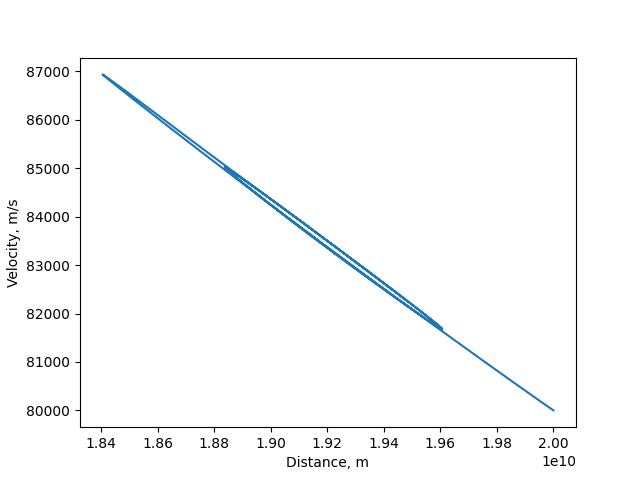
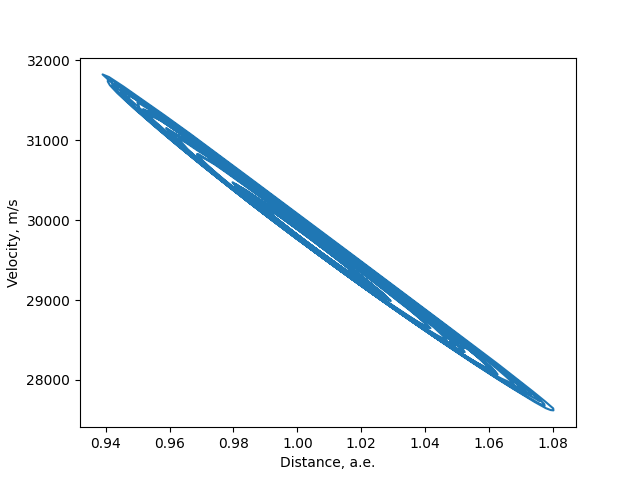
more soft code, renamed axis, added warning for energy conservation

diff --git a/solar_main.py b/solar_main.py
@@ -25,13 +25,9 @@ model_time = 0
 """Физическое время от начала расчёта.
 Тип: float"""
 
-base_time_scale = 300 # ты знаешь что такое определение безумия?
-"""Шаг по времени при моделировании(видимый)  в секундах по дефолту (сколько модельного времени проходит за секунду пользователя""
+base_time_scale = 3000 # ты знаешь что такое определение безумия?
+"""Шаг по времени при моделировании(видимый)  в секундах по дефолту (сколько модельного времени проходит в с за секунду пользователя""
 то есть при нулевом положении шкалы Тип: float"""
-
-precision = 5E7 # видимо это не поможет
-""" максимальный шаг по времени для программы в техническом исполнении с"""
-
 
 time_scale = base_time_scale
 """ Шаг времени при моделировании меняемый при изменении слайдера"""
@@ -47,32 +43,17 @@ models = os.listdir(directory)
 
 chosen_file = ''  # сразу после запуска программы ни одна модель не загружена
 
-list_of_models_is_seen = True
-
+list_of_models_is_seen = False
 
 def execution(delta):
     """Функция исполнения -- выполняется циклически, вызывая обработку всех небесных тел,
     то есть расчет их скоростей и координат.
     """
     global model_time
-    global precison
-    i = 0
-    step_time = 0.0
-    if delta <= precision:
-         recalculate_space_objects_positions(
-             [dr.obj for dr in space_objects], delta)
-         model_time += delta
-
-    else: # if speed of time is to big will make calculations with precision(FIXME)
-        while step_time <= delta:
-            print(i)
-            recalculate_space_objects_positions(
-                [dr.obj for dr in space_objects], precision)
-            i =i +1
-            step_time += precision
-        model_time += delta
-
-
+    global E
+    recalculate_space_objects_positions(
+        [dr.obj for dr in space_objects], delta)
+    model_time += delta
 
 def start_execution():
     """Обработчик события нажатия на кнопку Play.
@@ -120,9 +101,9 @@ def open_file(file_name):
     pause_execution()  # когда вызывается новый файл симуляция останавливается
     update_ui = True
     chosen_file = file_name
-    print(len(configuration))
-    configuration.clear()
-    print(len(configuration))
+    configuration.clear()  # очищаем базу данных по телам
+
+
 def show_list_of_files():
     global update_ui
     global list_of_models_is_seen
@@ -203,7 +184,17 @@ def init_ui(screen):
     return menu, box, timersec, timeryear
 
 
+class Warner():
+    def __init__(self):
+        self.warning_displayed = False
+    def show_warn(self, E0, E1, years):
+        if abs((E0 - E1) / E0) >= 0.002 and not self.warning_displayed:
+            print('Внимание, модельное время ', (round(years, 2)), ' года\n'
+                'Существенное отклонение от закона сохранения энергии\n'
+                  'Дальнейшая симуляция некорректна')
+            self.warning_displayed = True
 
+warner = Warner()
 def main():
     """Главная функция главного модуля.
     Создаёт объекты графического дизайна библиотеки thorpy: окно, холст,
@@ -235,22 +226,32 @@ def main():
         drawer.update(space_objects, box)
         handle_events(pg.event.get(), menu)
         cur_time = time.perf_counter()
+        if model_time == 0:
+            E0 = (calculate_energy(space_objects))
+            warner.warning_displayed = False
         if perform_execution:
-            execution(time_scale)
+            execution(time_scale * (cur_time - last_time))
             text =  str(int(model_time)) + " seconds passed"
             timersec.set_text(text)
             years = ((model_time) / (365.25 * 24 * 3600))
             text = str(round(years, 1)) + " years passed"
             timeryear.set_text(text)
+            E1 = (calculate_energy(space_objects))
+            try:
+                warner.show_warn(E0, E1, years)
+            except ZeroDivisionError:
+                pass
+            remember_data_for_graphs([dr.obj for dr in space_objects],
+                                     model_time)
+            
 
-        last_time = cur_time  # что это делает и без него все работает?
+        last_time = cur_time
         drawer.update(space_objects, box)
         time.sleep(1.0/ 60) # basically FPS
-        remember_data_for_graphs([dr.obj for dr in space_objects], model_time)
-
     print('Modelling finished!')
     pg.quit()
-    plot_graph("graphs/")
+    plot_graph(os.path.abspath('graphs'))
+    print('Graphs are saved into corresponding folder')
 
 if __name__ == "__main__":
     main()

diff --git a/solar_input.py b/solar_input.py
@@ -2,6 +2,7 @@
 # license: GPLv3
 import numpy
 import matplotlib.pyplot as plt
+import os
 
 from solar_objects import Star, Planet
 from solar_vis import DrawableObject
@@ -17,7 +18,8 @@ def read_space_objects_data_from_file(input_filename):
     """
 
     objects = []
-    with open("models/" + input_filename, 'r') as input_file:
+    with open(os.path.join(os.path.abspath('models'),
+                           input_filename), 'r') as input_file:
         for line in input_file:
             if len(line.strip()) == 0 or line[0] == '#':
                 continue  # пустые строки и строки-комментарии пропускаем
@@ -119,15 +121,17 @@ def write_space_objects_data_to_file(output_filename, space_objects):
             print(out_file, "%s %d %s %f" % ('1', 2, '3', 4.5))'''
 
 
+
 def remember_data_for_graphs(space_objects, t):
     global configuration
-
-    if len(space_objects) == 2:
-        planet, star = space_objects
+    try:
+        planet, star = space_objects[0], space_objects[1] 
         r = ((planet.x - star.x)**2 + (planet.y - star.y)**2)**(1/2)
         v = ((planet.Vx - star.Vx)**2 + (planet.Vy - star.Vy)**2)**(1/2)
-
+    
         configuration.append((r, v, t))
+    except IndexError:
+        pass
 
 def plot_graph(path):
     global configuration
@@ -135,35 +139,30 @@ def plot_graph(path):
     time = []
     r = []
     v = []
-    for el in configuration:
-        r_temp, v_temp, t_temp = el
-        time.append(t_temp)
-        r.append(r_temp)
+    for element in configuration:
+        r_temp, v_temp, t_temp = element
+        time.append(t_temp / (365.25 * 24 * 3600)) # к годам
+        r.append(r_temp / (1.496 * 10E10)) # к астрономическим единицами
         v.append(v_temp)
 
     plt.figure(1)
     plt.plot(time, r)
-    plt.xlabel("Time, s")
-    plt.ylabel("Distance, m")
-    plt.savefig(path + 'r_t.png')
-    
+    plt.xlabel("Time, years")
+    plt.ylabel("Distance, a.e.")
+    plt.savefig(os.path.join(path, 'r_t.png'))
+                
     plt.figure(2)
     plt.plot(time, v)
-    plt.xlabel("Time, s")
+    plt.xlabel("Time, years")
     plt.ylabel("Velocity, m/s")
-    plt.savefig(path + 'v_t.png')
+    plt.savefig(os.path.join(path, 'v_t.png'))
     
     plt.figure(3)
     plt.plot(r, v)
-    plt.xlabel("Distance, m")
+    plt.xlabel("Distance, a.e.")
     plt.ylabel("Velocity, m/s")
-    plt.savefig(path + 'v_r.png')
+    plt.savefig(os.path.join(path, 'v_r.png'))
 
-
-    
-
-    
-        
 
 if __name__ == "__main__":
     print("This module is not for direct call!")

diff --git a/solar_model.py b/solar_model.py
@@ -23,8 +23,7 @@ def calculate_force(body, space_objects):
 
 
         body.Fx += (obj.x - body.x) / (r**3) * gravitational_constant * obj.m * body.m
-        body.Fy += (obj.y - body.y) / (r**3) * gravitational_constant * obj.m * body.m
-        
+        body.Fy += (obj.y - body.y) / (r**3) * gravitational_constant * obj.m * body.m        
 
 def move_space_object(body, dt):
     """Перемещает тело в соответствии с действующей на него силой.
@@ -45,7 +44,19 @@ def move_space_object(body, dt):
     body.y += body.Vy*dt
     
 
+def calculate_energy(space_objects):
+    e = 0
+    for body1 in space_objects:
+        for body2 in space_objects:
+            if body1 == body2:
+                continue
+            r = ((body1.obj.x - body2.obj.x)**2 + (body1.obj.y - body2.obj.y)**2)**(1/2)
+            e -= gravitational_constant * body1.obj.m * body2.obj.m / r / 2
 
+    for body in space_objects:
+        e += body.obj.m / 2 * (body.obj.Vy**2 + body.obj.Vx**2)
+
+    return(e)
 def recalculate_space_objects_positions(space_objects, dt):
     """Пересчитывает координаты объектов.
 
@@ -69,15 +80,10 @@ def recalculate_space_objects_positions(space_objects, dt):
     for body in space_objects:
         e += body.m / 2 * (body.Vy**2 + body.Vx**2)
     '''
-            
-            
-    
-    
     for body in space_objects:
         calculate_force(body, space_objects)
     for body in space_objects:
         move_space_object(body, dt)
-
     '''
     potential = 0
     for body in space_objects:
